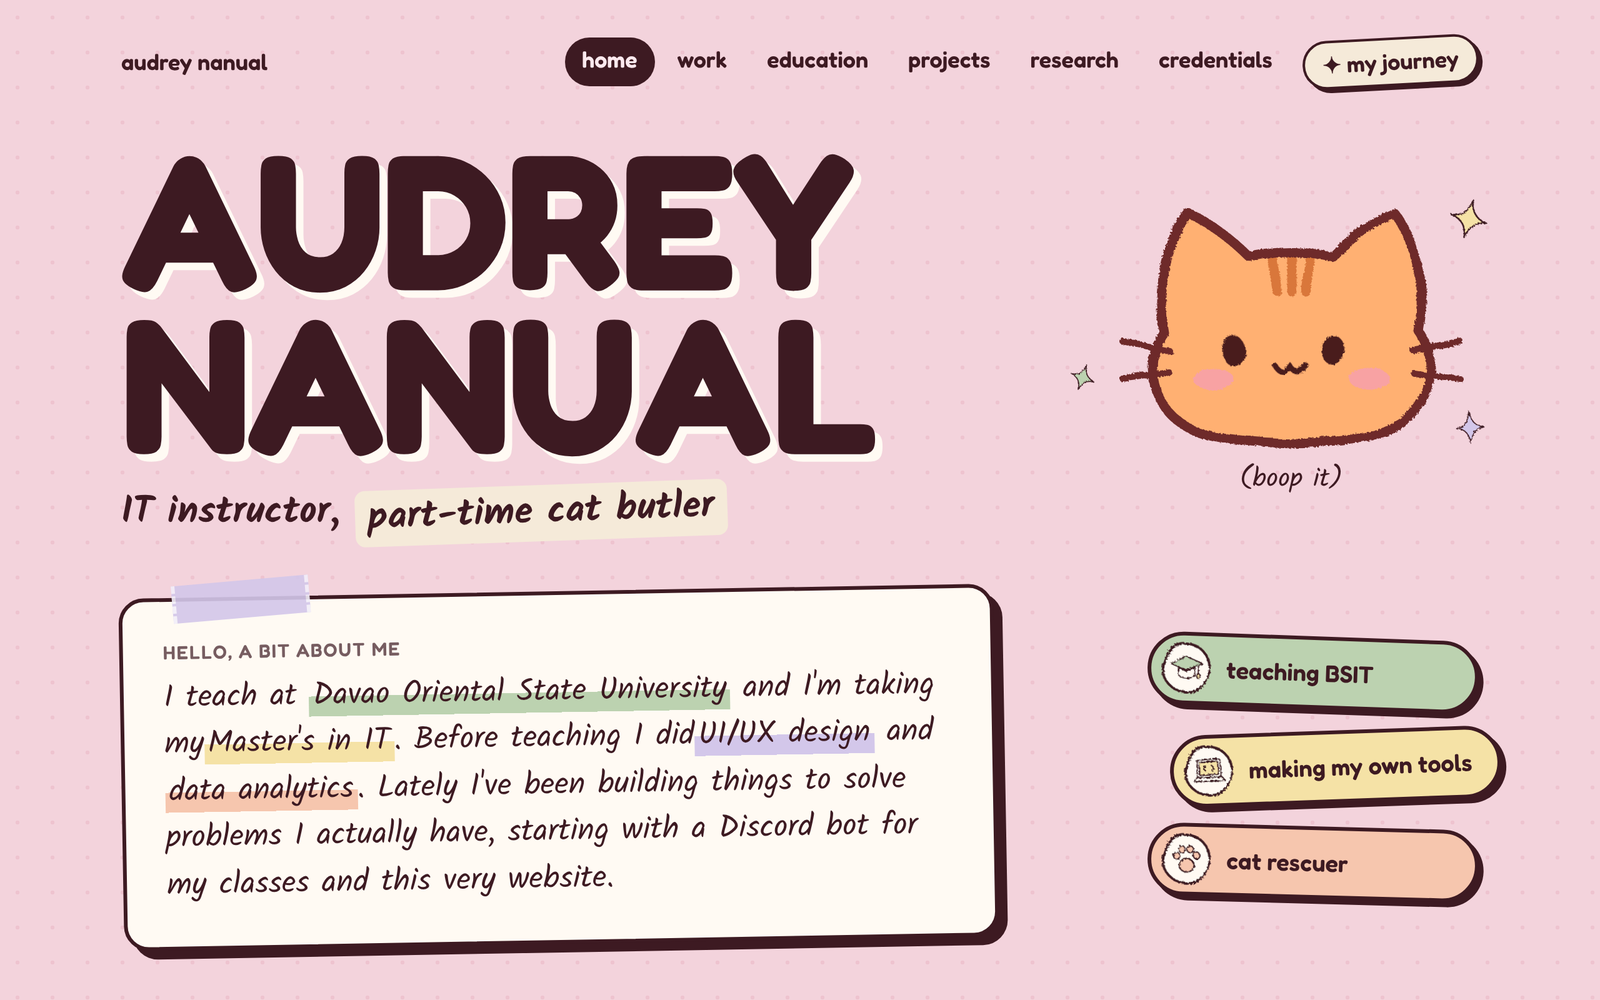
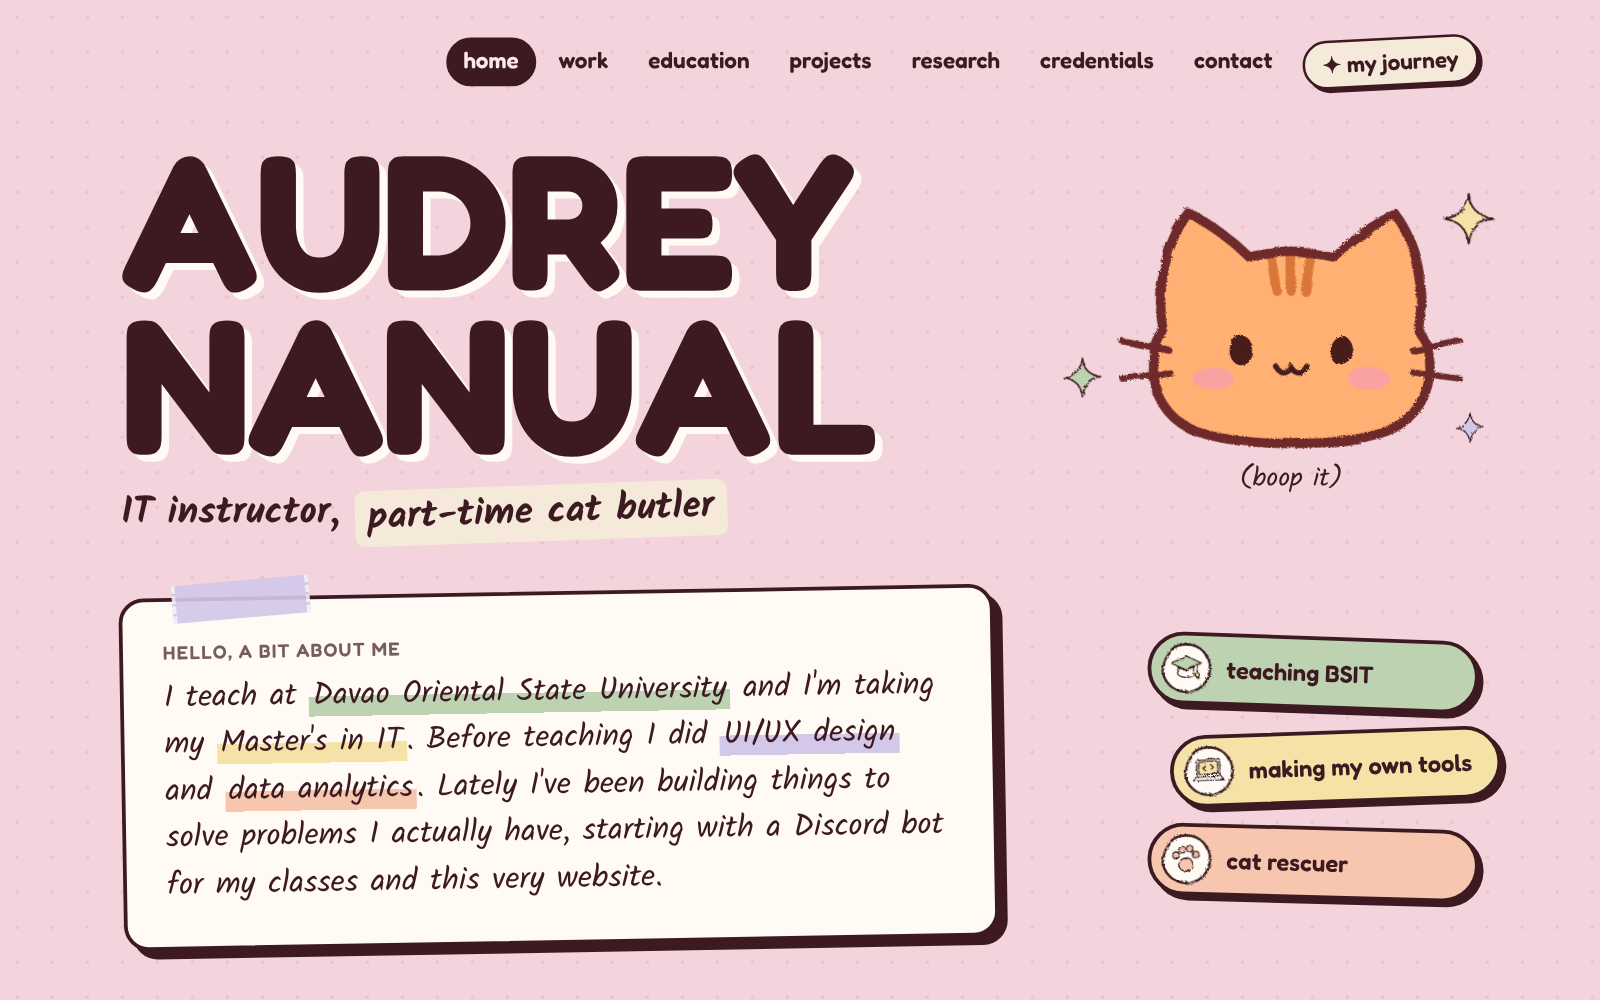
docs: refresh README and screenshots

diff --git a/README.md b/README.md
@@ -14,20 +14,30 @@ Pink, scrapbooky, and full of cats.
 | **Home** | Who I am, at a glance |
 | **Work** | Teaching at DOrSU, UI/UX design, a software dev internship, and my first campus job |
 | **Education** | From Immaculate Heart of Mary Academy to my Master's in IT at Mapúa |
-| **Projects** | Things I've made, starting with Mingming, a Discord bot for my class servers |
-| **Research** | My undergraduate thesis, with more to come |
+| **Projects** | Mingming (a Discord bot for my class servers), UI/UX case studies from Telemondo, and data analytics work |
+| **Research** | My undergraduate thesis, plus a plain-language explainer of it |
 | **Credentials** | Awards, certificates, and the languages in my life |
+| **Contact** | A message form that lands in my inbox, plus LinkedIn and GitHub |
 | **My Journey** | The whole story as a scrollable path, with a little cat that walks it with you |
 | **The cozy side** | The not-work part: blog, cats, cat rescue, art (rooms still being furnished) |
 
-![Journey page: a dashed path down a grid-paper background, with chapter labels and story cards](docs/screenshots/journey.png)
+<table>
+  <tr>
+    <td><img src="docs/screenshots/projects.png" alt="Projects page: jump pills and the Mingming project card"></td>
+    <td><img src="docs/screenshots/mingming.png" alt="Mingming case study: the problem, with messy Discord nicknames turning tidy"></td>
+  </tr>
+</table>
+
+![Journey page: a dashed path down a grid-paper background, with chapter cards and a little walking cat](docs/screenshots/journey.png)
 
 ## Little details
 
 - **Hand-drawn wobble:** outlines gently "boil" like a cartoon, using SVG noise filters swapped about 8 times a second.
 - **Cats everywhere:** the chibi cats are drawn in SVG, blink on their own, and follow your cursor with their eyes. Boop the big one.
 - **Scrapbook styling:** washi tape, sticker shadows, marker highlights, and folded-corner certificate cards.
-- **Respects your settings:** if your device asks for reduced motion, the animations turn off.
+- **Zoomable screenshots:** project images open full-size in a little lightbox.
+- **Respects your settings:** if your device asks for reduced motion, the animations turn off (the home strip just drifts slowly, and you can tap it to pause).
+- **Easy to find:** a sitemap, link previews for Messenger, LinkedIn, and Discord, and search-engine data that ties my name to my profiles.
 - **Fast and simple:** a static site with no framework running in the browser, just HTML, CSS, and a bit of JavaScript.
 
 ## Built with
@@ -71,10 +81,11 @@ Commit types I use: `feat` (new page or feature), `fix` (something broken), `sty
 personal-website/
 ├── src/
 │   ├── data/          ← THE CONTENT. Start here.
-│   │   ├── site.ts         name, email, links, nav, the scrolling band
+│   │   ├── site.ts         name, web address, links, contact form key, nav, the scrolling band
 │   │   ├── resume.ts       work experience + education (also feeds the journey)
 │   │   ├── journey.ts      chapters + stops on the journey page
-│   │   ├── projects.ts     project cards
+│   │   ├── projects.ts     project cards, case studies, practice projects
+│   │   ├── tools.ts        the "my toolbox" section on the home page
 │   │   ├── research.ts     research papers
 │   │   ├── credentials.ts  certificates, awards, languages
 │   │   └── logos.ts        which logo file belongs to which organization
@@ -84,29 +95,40 @@ personal-website/
 │   │   ├── education.astro     /education
 │   │   ├── projects/index.astro      /projects
 │   │   ├── projects/mingming.astro   /projects/mingming
+│   │   ├── projects/[slug].astro     /projects/blasttext, … (one page per case study)
 │   │   ├── research.astro      /research
+│   │   ├── research/bacteria-colony-counting.astro   the thesis, explained simply
 │   │   ├── credentials.astro   /credentials
 │   │   ├── journey.astro       /journey
+│   │   ├── contact.astro       /contact
 │   │   ├── cozy.astro          /cozy        the back room
-│   │   └── 404.astro           page-not-found
+│   │   ├── 404.astro           page-not-found
+│   │   └── sitemap.xml.ts      the list of pages for search engines (builds itself)
 │   ├── components/    ← reusable pieces
 │   │   ├── Cat.astro       the chibi cats (add new coats here)
 │   │   ├── Doodle.astro    all the little drawings (trophy, boat, laptop…)
 │   │   ├── LogoBadge.astro round logo badges (work, education, awards)
-│   │   └── Logos.astro     small logo tags (certificates)
+│   │   ├── Logos.astro     small logo tags (certificates)
+│   │   ├── Shot.astro      screenshot frames (browser window, phone, plain)
+│   │   └── Lightbox.astro  click a screenshot to see it bigger
 │   ├── layouts/
 │   │   └── Base.astro      wraps every page: nav, footer, shared animations
 │   └── styles/
 │       └── global.css      colors, fonts, reusable styles (.sticker, .tape, .chip…)
-├── public/            ← files served as-is (favicon, logos)
+├── public/            ← files served as-is: favicon, logos, project images,
+│                         og.png (the link-preview card), robots.txt
 ├── docs/screenshots/  ← images for this README
+├── private/           ← stays on my laptop only (see .gitignore): certificates,
+│                         original images, thesis files, content draft
 └── wrangler.jsonc     ← Cloudflare settings
 ```
 
 ### Easy edits
 
-- **Fill a placeholder:** search the project for `[` to find every placeholder in square brackets.
-- **Add an email or footer link:** `src/data/site.ts`
+- **Add a footer/contact link:** `links` in `src/data/site.ts`.
+- **Got your own domain?** Update `url` in `src/data/site.ts` and the address in `public/robots.txt`.
+- **Add a tool:** `src/data/tools.ts`.
+- **Add a case study:** copy one entry in `caseStudies` in `src/data/projects.ts` and put its images in `public/projects/<slug>/`. Its page, its card, and its sitemap entry appear automatically.
 - **Update a job or school:** edit it once in `src/data/resume.ts`. The Work, Education, and Journey pages all update.
 - **Add a journey stop:** copy one `{ ... }` block in `src/data/journey.ts` and change the text.
 - **Reorder the tabs:** change the order in `nav` in `src/data/site.ts`. The "next up" links follow the same order.
